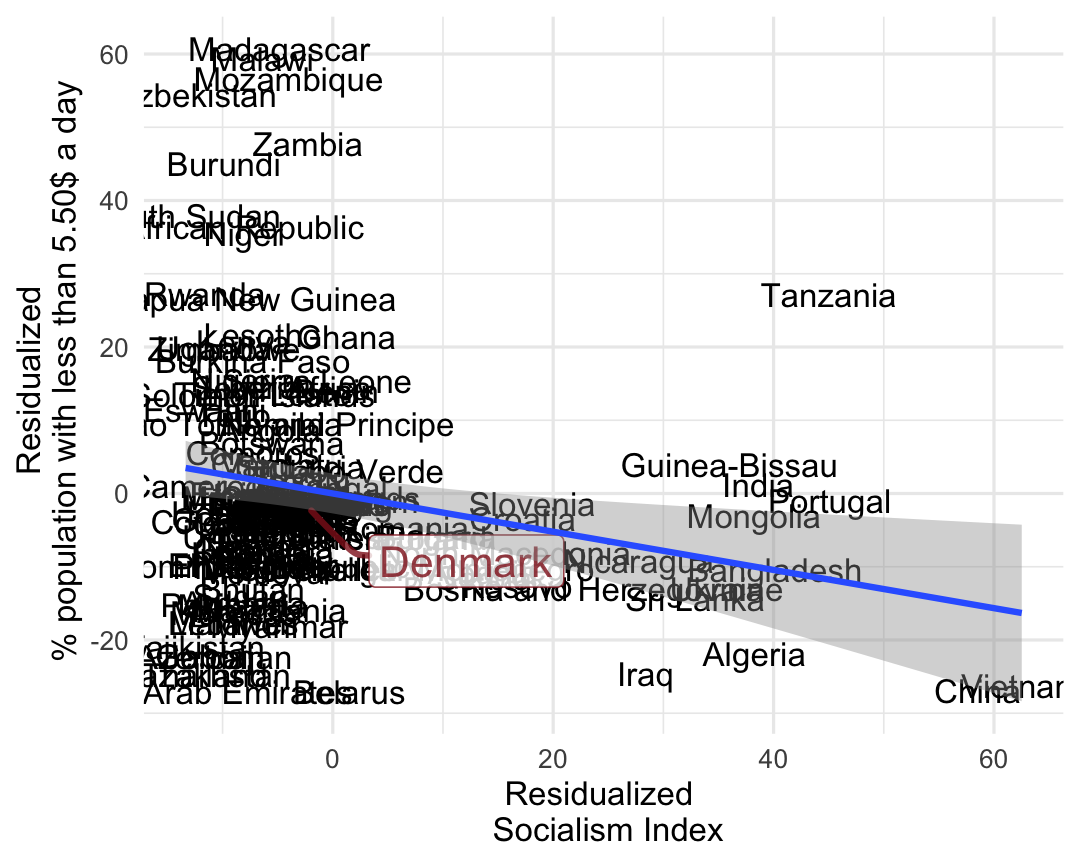
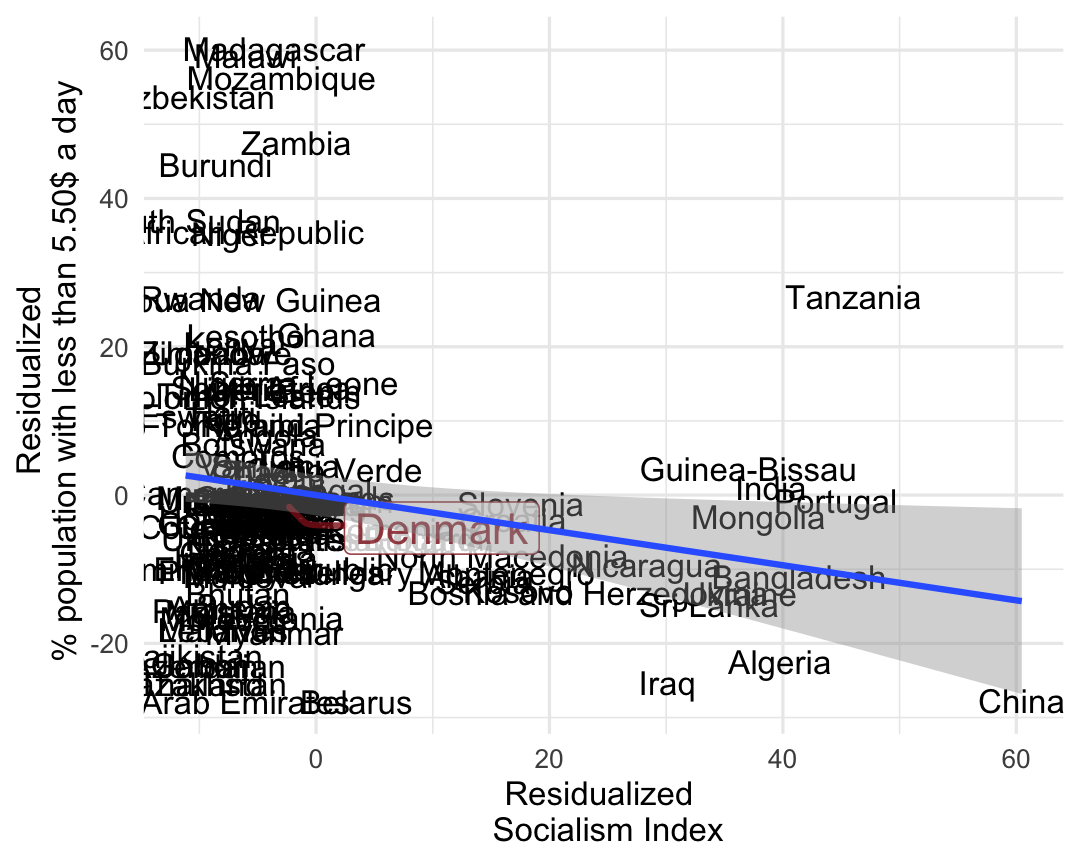
Update to lecture 9.

diff --git a/static/Lectures/9-Mult-OLS-in-practice/9-Mult-OLS-in-practice.html b/static/Lectures/9-Mult-OLS-in-practice/9-Mult-OLS-in-practice.html
@@ -4,7 +4,7 @@
     <title>Multiple Regression &amp;    Fundamentals of Causal Inference</title>
     <meta charset="utf-8" />
     <meta name="author" content="Merlin Schaeffer  Department of Sociology" />
-    <meta name="date" content="2023-10-10" />
+    <meta name="date" content="2023-11-08" />
     <script src="libs/header-attrs/header-attrs.js"></script>
     <link href="libs/tile-view/tile-view.css" rel="stylesheet" />
     <script src="libs/tile-view/tile-view.js"></script>
@@ -29,7 +29,7 @@ class: center, middle, inverse, title-slide
 ### Merlin Schaeffer<br> Department of Sociology
 ]
 .date[
-### 2023-10-10
+### 2023-11-08
 ]
 
 ---
@@ -147,42 +147,42 @@ modelsummary(list("Poverty (OLS)" = ols, "Poverty (OLS mult.)" = ols_mult),
 &lt;tbody&gt;
   &lt;tr&gt;
    &lt;td style="text-align:left;"&gt; (Intercept) &lt;/td&gt;
-   &lt;td style="text-align:center;"&gt; 12.572*** &lt;/td&gt;
-   &lt;td style="text-align:center;"&gt; 32.798*** &lt;/td&gt;
+   &lt;td style="text-align:center;"&gt; 12.553*** &lt;/td&gt;
+   &lt;td style="text-align:center;"&gt; 32.873*** &lt;/td&gt;
   &lt;/tr&gt;
   &lt;tr&gt;
    &lt;td style="text-align:left;"&gt;  &lt;/td&gt;
-   &lt;td style="text-align:center;"&gt; (1.776) &lt;/td&gt;
-   &lt;td style="text-align:center;"&gt; (5.020) &lt;/td&gt;
+   &lt;td style="text-align:center;"&gt; (1.788) &lt;/td&gt;
+   &lt;td style="text-align:center;"&gt; (5.025) &lt;/td&gt;
   &lt;/tr&gt;
   &lt;tr&gt;
    &lt;td style="text-align:left;"&gt; socialist &lt;/td&gt;
-   &lt;td style="text-align:center;"&gt; −0.131 &lt;/td&gt;
-   &lt;td style="text-align:center;"&gt; −0.261** &lt;/td&gt;
+   &lt;td style="text-align:center;"&gt; −0.126 &lt;/td&gt;
+   &lt;td style="text-align:center;"&gt; −0.237* &lt;/td&gt;
   &lt;/tr&gt;
   &lt;tr&gt;
    &lt;td style="text-align:left;"&gt;  &lt;/td&gt;
-   &lt;td style="text-align:center;"&gt; (0.080) &lt;/td&gt;
-   &lt;td style="text-align:center;"&gt; (0.095) &lt;/td&gt;
+   &lt;td style="text-align:center;"&gt; (0.092) &lt;/td&gt;
+   &lt;td style="text-align:center;"&gt; (0.104) &lt;/td&gt;
   &lt;/tr&gt;
   &lt;tr&gt;
    &lt;td style="text-align:left;"&gt; citizen_rights &lt;/td&gt;
    &lt;td style="text-align:center;"&gt;  &lt;/td&gt;
-   &lt;td style="text-align:center;"&gt; −2.551*** &lt;/td&gt;
+   &lt;td style="text-align:center;"&gt; −2.571*** &lt;/td&gt;
   &lt;/tr&gt;
   &lt;tr&gt;
    &lt;td style="text-align:left;box-shadow: 0px 1.5px"&gt;  &lt;/td&gt;
    &lt;td style="text-align:center;box-shadow: 0px 1.5px"&gt;  &lt;/td&gt;
-   &lt;td style="text-align:center;box-shadow: 0px 1.5px"&gt; (0.475) &lt;/td&gt;
+   &lt;td style="text-align:center;box-shadow: 0px 1.5px"&gt; (0.478) &lt;/td&gt;
   &lt;/tr&gt;
   &lt;tr&gt;
    &lt;td style="text-align:left;"&gt; Num.Obs. &lt;/td&gt;
-   &lt;td style="text-align:center;"&gt; 145 &lt;/td&gt;
-   &lt;td style="text-align:center;"&gt; 145 &lt;/td&gt;
+   &lt;td style="text-align:center;"&gt; 144 &lt;/td&gt;
+   &lt;td style="text-align:center;"&gt; 144 &lt;/td&gt;
   &lt;/tr&gt;
   &lt;tr&gt;
    &lt;td style="text-align:left;"&gt; R2 &lt;/td&gt;
-   &lt;td style="text-align:center;"&gt; 0.011 &lt;/td&gt;
+   &lt;td style="text-align:center;"&gt; 0.008 &lt;/td&gt;
    &lt;td style="text-align:center;"&gt; 0.236 &lt;/td&gt;
   &lt;/tr&gt;
 &lt;/tbody&gt;
@@ -235,20 +235,20 @@ Frisch and Waugh (1933) proved that the way multiple OLS achieves this is mathem
    add_residuals(Dat, model = .) %&gt;% 
    # Rename residuals.
    rename(e_poverty = resid)) 
-# # A tibble: 145 × 6
+# # A tibble: 144 × 6
 #    country     date poverty citizen_rights socialist e_poverty
 #    &lt;chr&gt;      &lt;dbl&gt;   &lt;dbl&gt;          &lt;dbl&gt;     &lt;dbl&gt;     &lt;dbl&gt;
-#  1 Albania     2020     0                8        20   -10.7  
-#  2 Algeria     2011     0.5              3        49   -21.8  
-#  3 Angola      2018    31.1              3         5     8.76 
-#  4 Argentina   2021     1               10         0    -5.08 
-#  5 Armenia     2021     0.5              6         0   -14.9  
-#  6 Australia   2018     0.5             12         0    -0.935
-#  7 Austria     2020     0.7             12         0    -0.735
-#  8 Azerbaijan  2005     0                3         0   -22.3  
-#  9 Bangladesh  2022     9.6              4        50   -10.4  
-# 10 Belarus     2020     0                1        14   -27.0  
-# # ℹ 135 more rows
+#  1 Albania     2020     0                8        20   -10.9  
+#  2 Algeria     2011     0.5              3        49   -22.5  
+#  3 Angola      2018    31.1              3         5     8.13 
+#  4 Argentina   2021     1               10         0    -5.04 
+#  5 Armenia     2021     0.5              6         0   -15.2  
+#  6 Australia   2018     0.5             12         0    -0.698
+#  7 Austria     2020     0.7             12         0    -0.498
+#  8 Azerbaijan  2005     0                3         0   -23.0  
+#  9 Bangladesh  2022     9.6              4        50   -11.0  
+# 10 Belarus     2020     0                1        14   -27.8  
+# # ℹ 134 more rows
 ```
 ]]
 .push-right[
@@ -272,20 +272,20 @@ Frisch and Waugh (1933) proved that the way multiple OLS achieves this is mathem
    add_residuals(Dat, model = .) %&gt;% 
    # Rename residuals.
    rename(e_socialist = resid)) 
-# # A tibble: 145 × 7
+# # A tibble: 144 × 7
 #    country     date poverty citizen_rights socialist e_poverty e_socialist
 #    &lt;chr&gt;      &lt;dbl&gt;   &lt;dbl&gt;          &lt;dbl&gt;     &lt;dbl&gt;     &lt;dbl&gt;       &lt;dbl&gt;
-#  1 Albania     2020     0                8        20   -10.7         13.6 
-#  2 Algeria     2011     0.5              3        49   -21.8         38.3 
-#  3 Angola      2018    31.1              3         5     8.76        -5.74
-#  4 Argentina   2021     1               10         0    -5.08        -4.63
-#  5 Armenia     2021     0.5              6         0   -14.9         -8.12
-#  6 Australia   2018     0.5             12         0    -0.935       -2.89
-#  7 Austria     2020     0.7             12         0    -0.735       -2.89
-#  8 Azerbaijan  2005     0                3         0   -22.3        -10.7 
-#  9 Bangladesh  2022     9.6              4        50   -10.4         40.1 
-# 10 Belarus     2020     0                1        14   -27.0          1.52
-# # ℹ 135 more rows
+#  1 Albania     2020     0                8        20   -10.9         14.0 
+#  2 Algeria     2011     0.5              3        49   -22.5         39.8 
+#  3 Angola      2018    31.1              3         5     8.13        -4.25
+#  4 Argentina   2021     1               10         0    -5.04        -4.74
+#  5 Armenia     2021     0.5              6         0   -15.2         -7.31
+#  6 Australia   2018     0.5             12         0    -0.698       -3.45
+#  7 Austria     2020     0.7             12         0    -0.498       -3.45
+#  8 Azerbaijan  2005     0                3         0   -23.0         -9.25
+#  9 Bangladesh  2022     9.6              4        50   -11.0         41.4 
+# 10 Belarus     2020     0                1        14   -27.8          3.47
+# # ℹ 134 more rows
 ```
 ]]
 .push-right[
@@ -321,53 +321,53 @@ modelsummary(list("OLS (mult.)" = ols_mult,
 &lt;tbody&gt;
   &lt;tr&gt;
    &lt;td style="text-align:left;"&gt; (Intercept) &lt;/td&gt;
-   &lt;td style="text-align:center;"&gt; 32.798*** &lt;/td&gt;
+   &lt;td style="text-align:center;"&gt; 32.873*** &lt;/td&gt;
    &lt;td style="text-align:center;"&gt; 0.000 &lt;/td&gt;
   &lt;/tr&gt;
   &lt;tr&gt;
    &lt;td style="text-align:left;"&gt;  &lt;/td&gt;
-   &lt;td style="text-align:center;"&gt; (5.020) &lt;/td&gt;
-   &lt;td style="text-align:center;"&gt; (1.377) &lt;/td&gt;
+   &lt;td style="text-align:center;"&gt; (5.025) &lt;/td&gt;
+   &lt;td style="text-align:center;"&gt; (1.384) &lt;/td&gt;
   &lt;/tr&gt;
   &lt;tr&gt;
    &lt;td style="text-align:left;"&gt; socialist &lt;/td&gt;
-   &lt;td style="text-align:center;"&gt; −0.261** &lt;/td&gt;
+   &lt;td style="text-align:center;"&gt; −0.237* &lt;/td&gt;
    &lt;td style="text-align:center;"&gt;  &lt;/td&gt;
   &lt;/tr&gt;
   &lt;tr&gt;
    &lt;td style="text-align:left;"&gt;  &lt;/td&gt;
-   &lt;td style="text-align:center;"&gt; (0.095) &lt;/td&gt;
+   &lt;td style="text-align:center;"&gt; (0.104) &lt;/td&gt;
    &lt;td style="text-align:center;"&gt;  &lt;/td&gt;
   &lt;/tr&gt;
   &lt;tr&gt;
    &lt;td style="text-align:left;"&gt; citizen_rights &lt;/td&gt;
-   &lt;td style="text-align:center;"&gt; −2.551*** &lt;/td&gt;
+   &lt;td style="text-align:center;"&gt; −2.571*** &lt;/td&gt;
    &lt;td style="text-align:center;"&gt;  &lt;/td&gt;
   &lt;/tr&gt;
   &lt;tr&gt;
    &lt;td style="text-align:left;"&gt;  &lt;/td&gt;
-   &lt;td style="text-align:center;"&gt; (0.475) &lt;/td&gt;
+   &lt;td style="text-align:center;"&gt; (0.478) &lt;/td&gt;
    &lt;td style="text-align:center;"&gt;  &lt;/td&gt;
   &lt;/tr&gt;
   &lt;tr&gt;
    &lt;td style="text-align:left;"&gt; e_socialist &lt;/td&gt;
    &lt;td style="text-align:center;"&gt;  &lt;/td&gt;
-   &lt;td style="text-align:center;"&gt; −0.261** &lt;/td&gt;
+   &lt;td style="text-align:center;"&gt; −0.237* &lt;/td&gt;
   &lt;/tr&gt;
   &lt;tr&gt;
    &lt;td style="text-align:left;box-shadow: 0px 1.5px"&gt;  &lt;/td&gt;
    &lt;td style="text-align:center;box-shadow: 0px 1.5px"&gt;  &lt;/td&gt;
-   &lt;td style="text-align:center;box-shadow: 0px 1.5px"&gt; (0.095) &lt;/td&gt;
+   &lt;td style="text-align:center;box-shadow: 0px 1.5px"&gt; (0.104) &lt;/td&gt;
   &lt;/tr&gt;
   &lt;tr&gt;
    &lt;td style="text-align:left;"&gt; Num.Obs. &lt;/td&gt;
-   &lt;td style="text-align:center;"&gt; 145 &lt;/td&gt;
-   &lt;td style="text-align:center;"&gt; 145 &lt;/td&gt;
+   &lt;td style="text-align:center;"&gt; 144 &lt;/td&gt;
+   &lt;td style="text-align:center;"&gt; 144 &lt;/td&gt;
   &lt;/tr&gt;
   &lt;tr&gt;
    &lt;td style="text-align:left;"&gt; R2 &lt;/td&gt;
    &lt;td style="text-align:center;"&gt; 0.236 &lt;/td&gt;
-   &lt;td style="text-align:center;"&gt; 0.050 &lt;/td&gt;
+   &lt;td style="text-align:center;"&gt; 0.036 &lt;/td&gt;
   &lt;/tr&gt;
 &lt;/tbody&gt;
 &lt;tfoot&gt;&lt;tr&gt;&lt;td style="padding: 0; " colspan="100%"&gt;
@@ -436,16 +436,16 @@ ggplot(data = plotdata,
 # # A tibble: 101 × 2
 #    socialist citizen_rights
 #        &lt;int&gt;          &lt;dbl&gt;
-#  1         0           7.59
-#  2         1           7.59
-#  3         2           7.59
-#  4         3           7.59
-#  5         4           7.59
-#  6         5           7.59
-#  7         6           7.59
-#  8         7           7.59
-#  9         8           7.59
-# 10         9           7.59
+#  1         0           7.63
+#  2         1           7.63
+#  3         2           7.63
+#  4         3           7.63
+#  5         4           7.63
+#  6         5           7.63
+#  7         6           7.63
+#  8         7           7.63
+#  9         8           7.63
+# 10         9           7.63
 # # ℹ 91 more rows
 ```
 ]]
@@ -462,16 +462,16 @@ ggplot(data = plotdata,
 # # A tibble: 101 × 5
 #    socialist citizen_rights   fit   lwr   upr
 #        &lt;int&gt;          &lt;dbl&gt; &lt;dbl&gt; &lt;dbl&gt; &lt;dbl&gt;
-#  1         0           7.59  13.4 10.2   16.7
-#  2         1           7.59  13.2 10.0   16.4
-#  3         2           7.59  12.9  9.84  16.0
-#  4         3           7.59  12.7  9.67  15.7
-#  5         4           7.59  12.4  9.49  15.3
-#  6         5           7.59  12.1  9.31  15.0
-#  7         6           7.59  11.9  9.11  14.7
-#  8         7           7.59  11.6  8.90  14.3
-#  9         8           7.59  11.4  8.68  14.0
-# 10         9           7.59  11.1  8.44  13.8
+#  1         0           7.63  13.2  9.99  16.5
+#  2         1           7.63  13.0  9.86  16.2
+#  3         2           7.63  12.8  9.73  15.8
+#  4         3           7.63  12.5  9.58  15.5
+#  5         4           7.63  12.3  9.42  15.2
+#  6         5           7.63  12.1  9.25  14.9
+#  7         6           7.63  11.8  9.07  14.6
+#  8         7           7.63  11.6  8.87  14.3
+#  9         8           7.63  11.4  8.65  14.1
+# 10         9           7.63  11.1  8.42  13.8
 # # ℹ 91 more rows
 ```
 ]]]
@@ -789,7 +789,7 @@ class: clear
 
 &lt;img src="9-Mult-OLS-in-practice_files/figure-html/unnamed-chunk-21-1.png" width="40%" style="display: block; margin: auto;" /&gt;
 
-OLS can statistically balance **_observed_** confounders, even after data have been collected.
+OLS can statistically balance **_observed_** confounders, even after data collection.
 ]]
 
 .push-right[.content-box-red[
@@ -838,7 +838,7 @@ What else could be `\(C?\)` That is, which other confounders would we need to co
 
 
 .push-right[
-&lt;img src="https://upload.wikimedia.org/wikipedia/en/thumb/2/29/Harvard_shield_wreath.svg/1200px-Harvard_shield_wreath.svg.png" width="60%" style="display: block; margin: auto;" /&gt;
+&lt;img src="https://en.wikipedia.org/wiki/Harvard_University#/media/File:Harvard_University_shield.png" width="60%" style="display: block; margin: auto;" /&gt;
 ]
 
 ---
@@ -887,14 +887,14 @@ class: clear
 ]
 
 .push-right[
-&lt;img src="./img/DaleKrueger4.png" width="100%" style="display: block; margin: auto;" /&gt;
+&lt;img src="./img/DaleKrueger4b.png" width="100%" style="display: block; margin: auto;" /&gt;
 .center[.backgrnote[*Source:* Dale and Krueger (2002)]]
 ]
 
 ---
 class: inverse middle center
 
-# If there is no Harvard premium in the US, &lt;br&gt; there is probably no KU premium in Denmark either.
+# If there is no Harvard premium in the US, &lt;br&gt; there is probably no KU premium in Denmark.
 
 `\(\rightarrow\)` **A degree from KU only pays off, because you're smart and put in the work ...**
 
